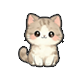
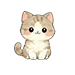
眨眼动画完成

Changed region(s): [[0.1867, 0.1333, 0.8267, 0.8533]]

diff --git a/main.py b/main.py
@@ -1,5 +1,6 @@
 import sys
 import os
+import random
 
 from PyQt6.QtWidgets import (
     QApplication,
@@ -8,45 +9,43 @@ from PyQt6.QtWidgets import (
 )
 from PyQt6.QtCore import Qt, QPoint, QTimer
 from PyQt6.QtGui import QPixmap, QAction
-#启动命令
-# python main.py
 
 
 def resource_path(relative_path: str) -> str:
-    """兼容 PyInstaller / 本地运行"""
-    if hasattr(sys, "_MEIPASS"):
-        return os.path.join(sys._MEIPASS, relative_path)
-    return os.path.join(os.path.abspath("."), relative_path)
+    """
+    PyInstaller 兼容资源路径
+    """
+    try:
+        base_path = sys._MEIPASS  # type: ignore
+    except Exception:
+        base_path = os.path.abspath(".")
+    return os.path.join(base_path, relative_path)
 
 
 class DesktopPet(QLabel):
     def __init__(self):
         super().__init__()
 
-        # ===== 窗口设置 =====
+        # ===== 窗口属性 =====
         self.setWindowFlags(
-            Qt.WindowType.FramelessWindowHint |
-            Qt.WindowType.WindowStaysOnTopHint |
-            Qt.WindowType.Tool
+            Qt.WindowType.FramelessWindowHint
+            | Qt.WindowType.WindowStaysOnTopHint
+            | Qt.WindowType.Tool
         )
         self.setAttribute(Qt.WidgetAttribute.WA_TranslucentBackground)
 
-        # ===== 图片资源（不改动作）=====
+        # ===== 加载图片帧 =====
         self.frames = [
-            QPixmap(resource_path("assets/stand/6.png")),
-            QPixmap(resource_path("assets/stand/7.png")),
-            QPixmap(resource_path("assets/stand/8.png")),
-            QPixmap(resource_path("assets/stand/9.png")),
+            QPixmap(resource_path("assets/stand/1.png")),  # 0 睁眼
+            QPixmap(resource_path("assets/stand/2.png")),  # 1 半眯1
+            QPixmap(resource_path("assets/stand/3.png")),  # 2 半眯2
+            QPixmap(resource_path("assets/stand/4.png")),  # 3 闭眼
         ]
 
-        # ===== 动画轨道 =====
-        self.sequence = [0, 1, 2, 3, 3, 2, 1, 0]
-        self.intervals = [900, 120, 150, 180, 180, 150, 120, 1200]
-
-        self.seq_index = 0
-
-        self.setPixmap(self.frames[0])
-        self.resize(self.frames[0].size())
+        # ===== 默认状态 =====
+        self.idle_frame = 0
+        self.setPixmap(self.frames[self.idle_frame])
+        self.resize(self.frames[self.idle_frame].size())
 
         # ===== 初始位置 =====
         screen = QApplication.primaryScreen().geometry()
@@ -57,26 +56,87 @@ class DesktopPet(QLabel):
         # ===== 拖拽 =====
         self.drag_pos = QPoint()
 
-        # ===== 动画定时器 =====
-        self.timer = QTimer(self)
-        self.timer.timeout.connect(self.play_animation)
-        self.timer.start(self.intervals[0])
+        # ===== 眨眼动画 =====
+        self.blink_sequence = [0, 1, 2, 3, 2, 1, 0]
+        self.blink_intervals = [0, 40, 50, 60, 50, 40, 0]
+        self.blink_index = 0
+        self.is_blinking = False
+        self.blink_repeat_total = 1   # 本轮要眨几次
+        self.blink_repeat_count = 0   # 已眨次数
+
+
+        self.blink_timer = QTimer(self)
+        self.blink_timer.timeout.connect(self.start_blink)
+        self.schedule_next_blink()
 
         # ===== 右键菜单 =====
         self.init_context_menu()
 
-    # ================== 动画 ==================
-    def play_animation(self):
-        frame_index = self.sequence[self.seq_index]
-        self.setPixmap(self.frames[frame_index])
+    # ===============================
+    # 眨眼逻辑
+    # ===============================
+    def schedule_next_blink(self):
+        delay = random.randint(2000, 5000)
+        self.blink_timer.start(delay)
 
-        # 固定位置，不做上下浮动
-        self.move(self.base_x, self.base_y)
+    def start_blink(self):
+        if self.is_blinking:
+            return
 
-        self.seq_index = (self.seq_index + 1) % len(self.sequence)
-        self.timer.start(self.intervals[self.seq_index])
+        self.is_blinking = True
+        self.blink_repeat_total = random.choice([1, 2])  # 快速眨 1 或 2 次
+        self.blink_repeat_count = 0
 
-    # ================== 右键菜单 ==================
+        self.blink_index = 0
+        self.play_blink_frame()
+
+
+    def play_blink_frame(self):
+        frame = self.blink_sequence[self.blink_index]
+        self.setPixmap(self.frames[frame])
+
+        interval = self.blink_intervals[self.blink_index]
+        self.blink_index += 1
+
+        if self.blink_index >= len(self.blink_sequence):
+            self.blink_repeat_count += 1
+
+            if self.blink_repeat_count < self.blink_repeat_total:
+                # 很短的停顿后再眨一次
+                self.blink_index = 0
+                QTimer.singleShot(
+                    random.randint(80, 120),
+                    self.play_blink_frame
+                )
+                return
+            else:
+                # 所有眨眼完成
+                self.is_blinking = False
+                self.setPixmap(self.frames[self.idle_frame])
+                self.schedule_next_blink()
+                return
+        QTimer.singleShot(interval, self.play_blink_frame)
+
+    # ===============================
+    # 拖拽
+    # ===============================
+    def mousePressEvent(self, event):
+        if event.button() == Qt.MouseButton.LeftButton:
+            self.drag_pos = event.globalPosition().toPoint() - self.frameGeometry().topLeft()
+
+    def mouseMoveEvent(self, event):
+        if event.buttons() & Qt.MouseButton.LeftButton:
+            new_pos = event.globalPosition().toPoint() - self.drag_pos
+            self.base_x = new_pos.x()
+            self.base_y = new_pos.y()
+            self.move(new_pos)
+
+    def mouseReleaseEvent(self, event):
+        pass
+
+    # ===============================
+    # 右键菜单
+    # ===============================
     def init_context_menu(self):
         self.setContextMenuPolicy(Qt.ContextMenuPolicy.CustomContextMenu)
         self.customContextMenuRequested.connect(self.show_context_menu)
@@ -97,29 +157,10 @@ class DesktopPet(QLabel):
         self.menu.exec(self.mapToGlobal(pos))
 
     def on_settings(self):
-        # 先占位，后续你要我可以直接给你写设置窗口
-        print("点击了：设置")
+        print("点击了：设置（占位）")
 
     def on_exit(self):
         QApplication.quit()
-
-    # ================== 拖拽 ==================
-    def mousePressEvent(self, event):
-        if event.button() == Qt.MouseButton.LeftButton:
-            self.drag_pos = (
-                event.globalPosition().toPoint()
-                - self.frameGeometry().topLeft()
-            )
-
-    def mouseMoveEvent(self, event):
-        if event.buttons() & Qt.MouseButton.LeftButton:
-            new_pos = event.globalPosition().toPoint() - self.drag_pos
-            self.base_x = new_pos.x()
-            self.base_y = new_pos.y()
-            self.move(new_pos)
-
-    def mouseReleaseEvent(self, event):
-        pass
 
 
 if __name__ == "__main__":
